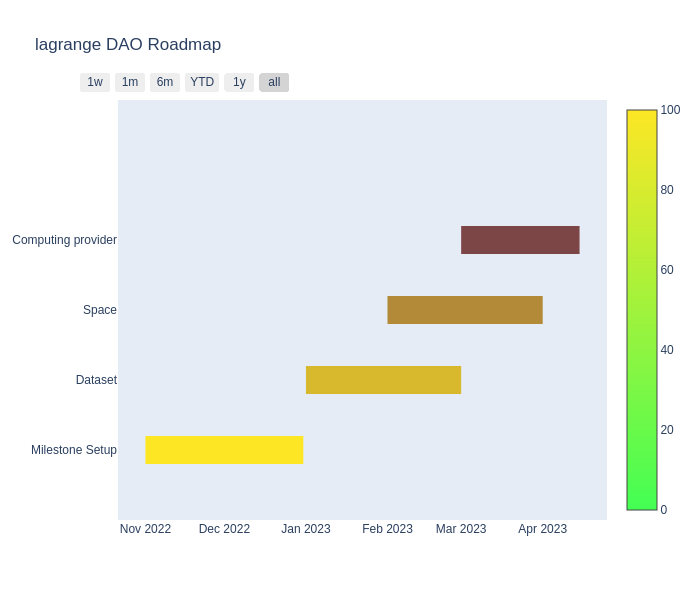
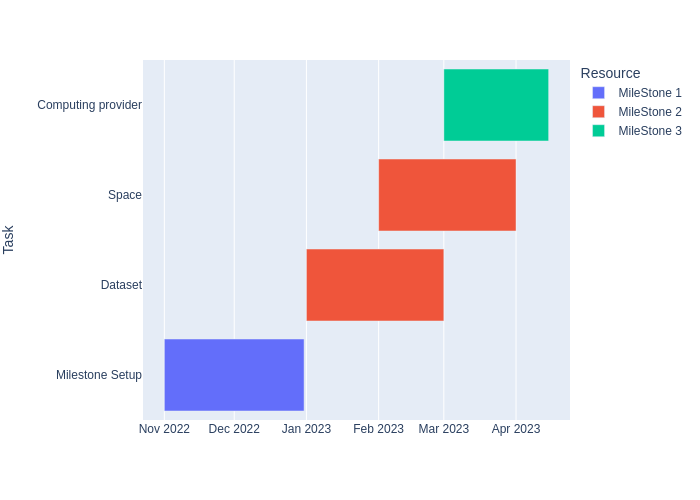
update milestone

diff --git a/roadmap_gantt.py b/roadmap_gantt.py
@@ -1,14 +1,20 @@
 import os
+import plotly.express as px
+import pandas as pd
 
 import plotly.figure_factory as ff
 
-df = [dict(Task="Milestone Setup", Start='2022-11-01', Finish='2022-12-31', Complete=100),
-      dict(Task="Dataset", Start='2023-01-01', Finish='2023-03-01', Complete=80),
-      dict(Task="Space", Start='2023-02-01', Finish='2023-04-01', Complete=60),
-      dict(Task="Computing provider", Start='2023-03-01', Finish='2023-04-15', Complete=30)]
+df = pd.DataFrame([
+    dict(Task="Milestone Setup", Start='2022-11-01', Finish='2022-12-31', Resource="MileStone 1"),
+    dict(Task="Dataset", Start='2023-01-01', Finish='2023-03-01', Resource="MileStone 2"),
+    dict(Task="Space", Start='2023-02-01', Finish='2023-04-01', Resource="MileStone 2"),
+    dict(Task="Computing provider", Start='2023-03-01', Finish='2023-04-15', Resource="MileStone 3")
+])
 
-fig = ff.create_gantt(df, title="lagrange DAO Roadmap", colors='Viridis', index_col='Complete', show_colorbar=True)
+fig = px.timeline(df, x_start="Start", x_end="Finish", y="Task", color="Resource")
+
 # fig.show()
 if not os.path.exists("images"):
     os.mkdir("images")
 fig.write_image("images/roadmap.png")
+fig.show()
